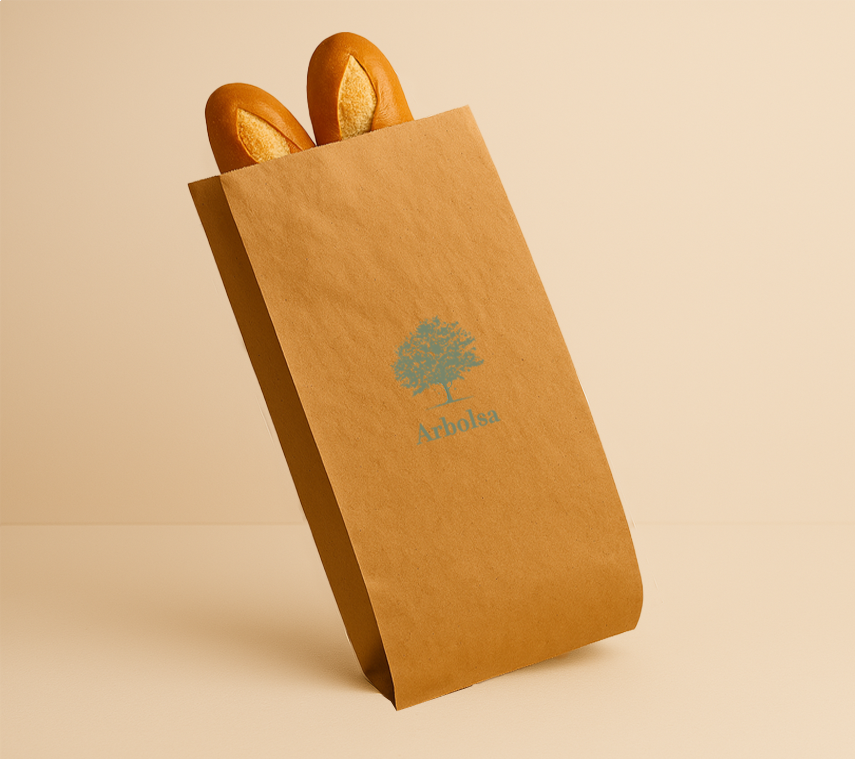
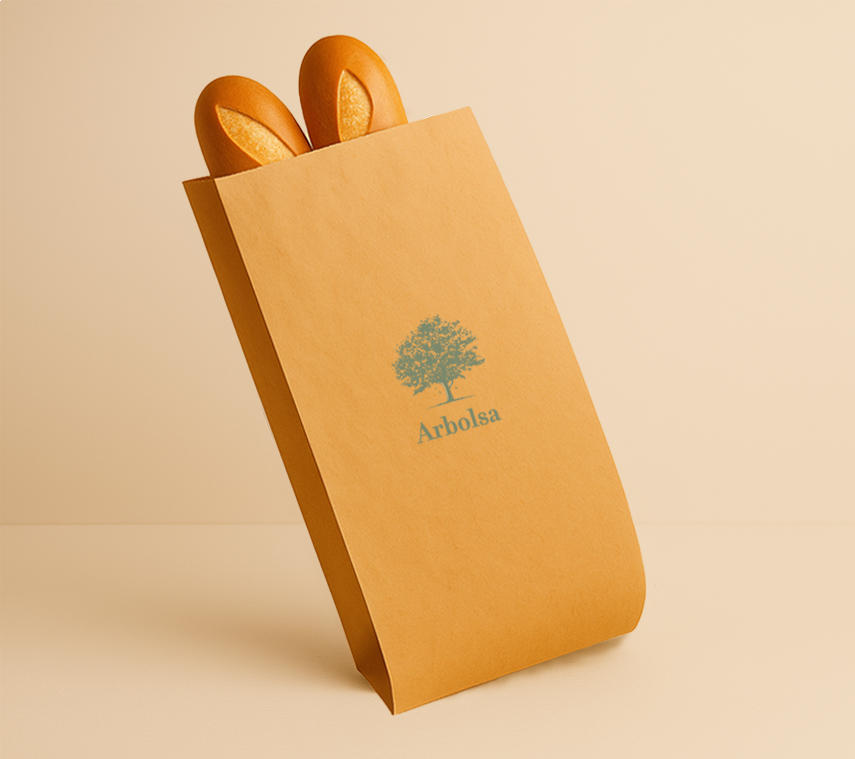
Add files via upload

Changed region(s): [[0.2129, 0.0303, 0.7602, 0.9394]]

diff --git a/index.html b/index.html
@@ -82,7 +82,7 @@ Porque inspiramos a las empresas a adoptar prácticas sostenibles, a los consumi
        <section id="productos"class="scroll-offset"> <a class="subtitulo-nuestros-productos">Nuestros Productos</a> </section>
 
 <section class="grid-wrapper-index">
-       <img class=" image-button-index " src="AB_02REAL.png"> 
+       <img class=" image-button-index " src="AB_06REAL.png"> 
   <div class="textbox-index textbox-blue"> 
     <nav class="big-card-text">
       <p class="header-card-index"> Bolsas fondo común</p>
